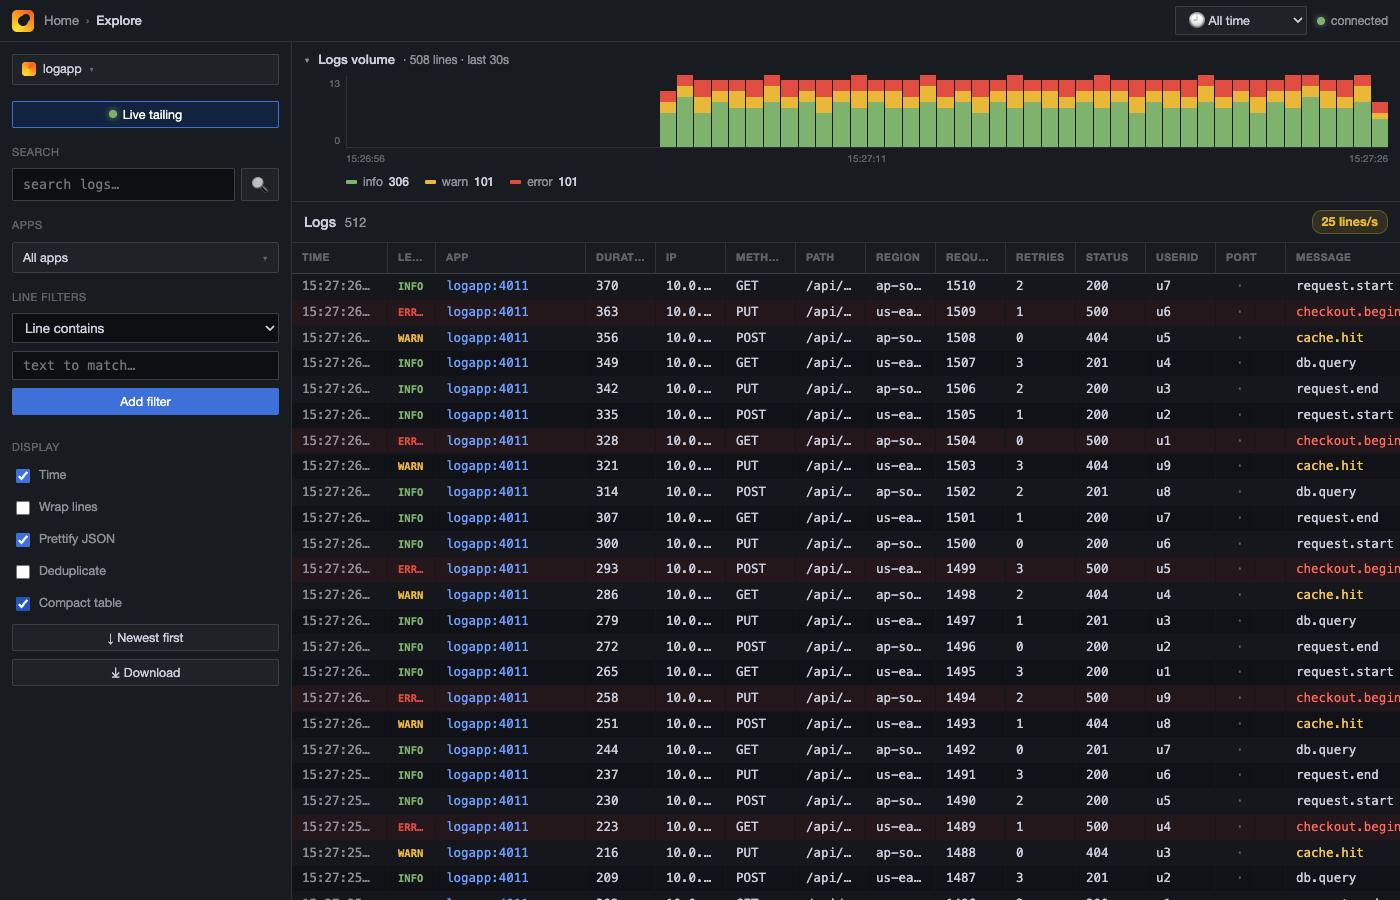
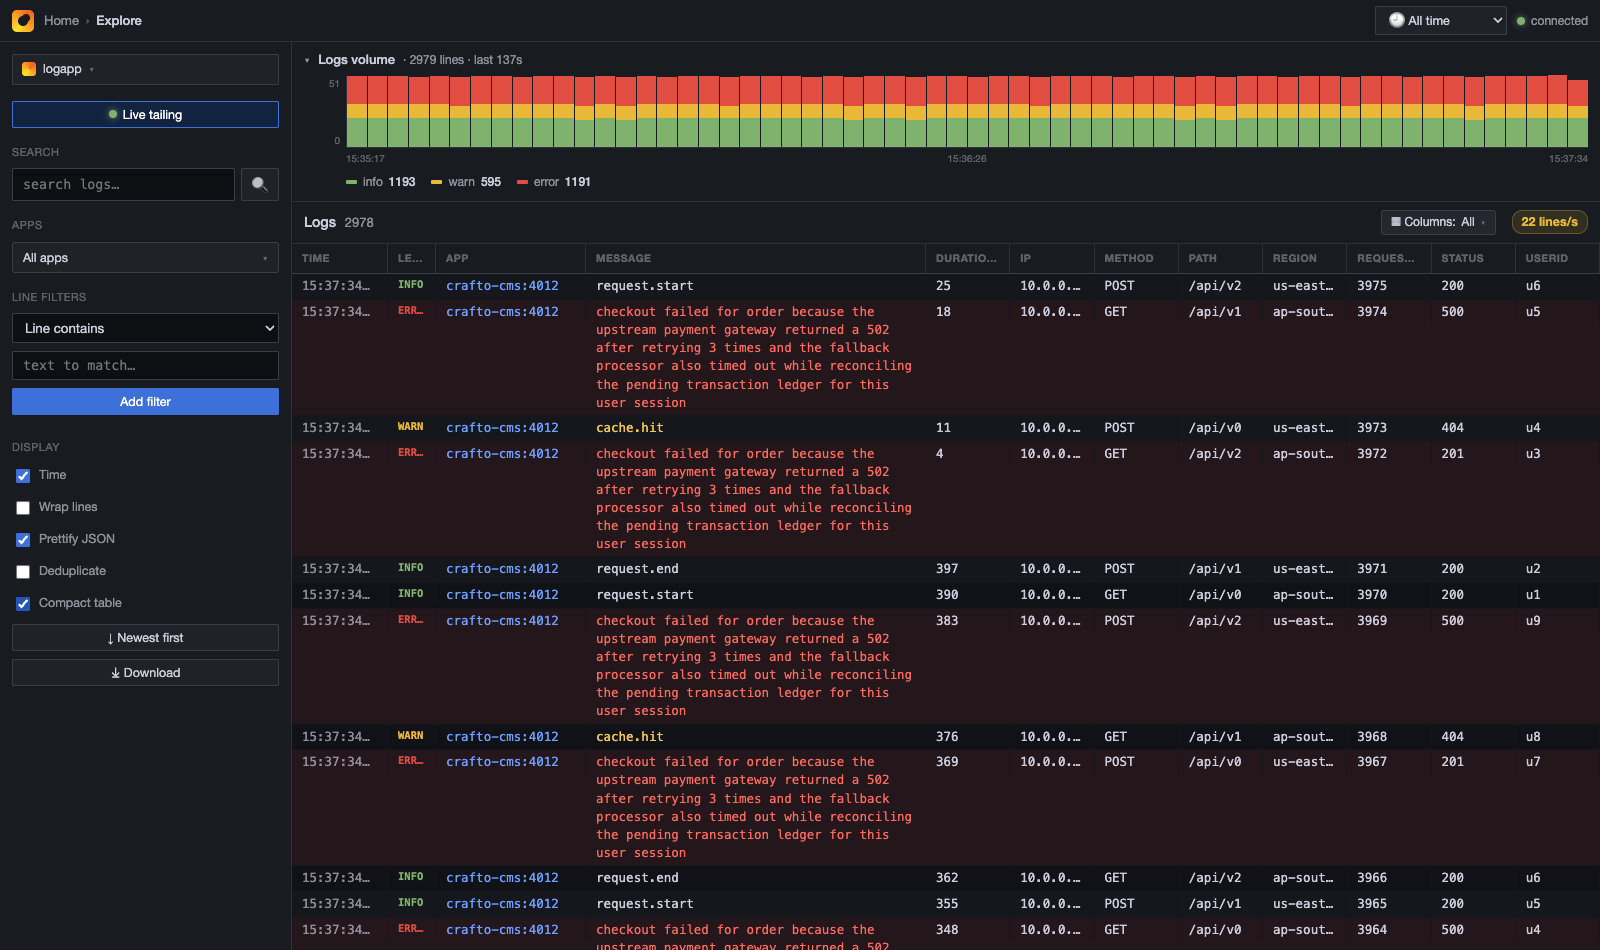
Compact table: column chooser dropdown, full message column, fixes
- Add a Columns dropdown (default 'All') to compact mode: lists every detected
  field with a checkbox to show/hide it, plus an 'All columns' select-all;
  hidden columns persist and the label shows N/total. Columns accumulate across
  renders so the picker stays stable as data scrolls.
- Move Message to right after App and show it in full (wraps, never truncated) so
  long messages are completely visible; fields follow with horizontal scroll.
- Fix header/row column mismatch that put durationMs under the Message header and
  pushed the real message into the last column.
- Skip the 'port' JSON field as a column (it is sparse/empty on most lines); the
  port is already shown in the App column (name:port).

Changed region(s): [[0.0, 0.0622, 1.0, 1.0], [0.8293, 0.0, 1.0, 0.0311], [0.0, 0.0, 0.0921, 0.0311]]

diff --git a/public/index.html b/public/index.html
@@ -181,7 +181,7 @@
     border: 1px solid var(--border2); border-radius: 9px; padding: 0 7px; font-size: 11px; }
   .row.notime { grid-template-columns: 3px auto 1fr; }
   .row.notime .t { display: none; }
-  .chead, .crow { display: grid; grid-template-columns: var(--cols); align-items: baseline; }
+  .chead, .crow { display: grid; grid-template-columns: var(--cols); align-items: start; }
   .chead { position: sticky; top: 0; z-index: 4; background: var(--panel); border-bottom: 1px solid var(--border2); }
   .chead span { padding: 7px 10px; color: var(--faint); font-size: 10.5px; text-transform: uppercase; letter-spacing: .5px; font-weight: 700; white-space: nowrap; overflow: hidden; text-overflow: ellipsis; border-right: 1px solid var(--border); }
   .crow { border-bottom: 1px solid #15171c; font-family: "Roboto Mono", Menlo, monospace; font-size: 12.5px; }
@@ -197,9 +197,23 @@
   .crow.error .clv { color: var(--l-error); } .crow.fatal .clv { color: var(--l-fatal); }
   .crow .cap { color: var(--blue2); }
   .crow .cfld { color: var(--text); } .crow .cnull { color: var(--faint); }
-  .crow .cmsg { color: var(--text); border-right: none; }
+  .crow .cmsg { color: var(--text); border-right: none; white-space: normal; overflow: visible; word-break: break-word; line-height: 1.45; }
   .crow mark { background: #b9840f; color: #fff; border-radius: 1px; }
   .crow .dup { background: var(--raised); color: var(--weak); border: 1px solid var(--border2); border-radius: 9px; padding: 0 6px; font-size: 11px; }
+  .coldd { position: relative; }
+  .coldd-trigger { display: inline-flex; align-items: center; gap: 6px; background: var(--raised); color: var(--text);
+    border: 1px solid var(--border2); border-radius: 3px; padding: 4px 9px; font-size: 12px; cursor: pointer; }
+  .coldd-trigger:hover { border-color: var(--blue2); }
+  .coldd-trigger .cc { color: var(--faint); font-size: 10px; }
+  .coldd-panel { display: none; position: absolute; top: calc(100% + 4px); right: 0; z-index: 30; width: 220px;
+    max-height: 340px; overflow-y: auto; background: var(--panel); border: 1px solid var(--border2); border-radius: 4px;
+    box-shadow: 0 8px 24px rgba(0,0,0,.55); padding: 4px; }
+  .coldd-panel.open { display: block; }
+  .coldd-panel .ci { display: flex; align-items: center; gap: 8px; padding: 5px 8px; font-size: 12.5px; color: var(--text);
+    border-radius: 3px; cursor: pointer; white-space: nowrap; }
+  .coldd-panel .ci:hover { background: var(--hover); }
+  .coldd-panel .ci input { cursor: pointer; }
+  .coldd-panel .ci-all { border-bottom: 1px solid var(--border); margin-bottom: 3px; color: var(--weak); }
   .details { grid-column: 1 / -1; background: #0c0d10; border-top: 1px solid var(--border); padding: 8px 12px 12px 25px; }
   .details .dh { color: var(--weak); font-size: 11px; text-transform: uppercase; letter-spacing: .5px; margin: 4px 0 6px; }
   .kv { display: grid; grid-template-columns: max-content 1fr; gap: 3px 18px; }
@@ -310,7 +324,15 @@
       <div class="xaxis" id="xaxis"></div>
       <div class="legend" id="legend"></div>
     </div>
-    <div class="logshead"><div class="h">Logs <span id="count">0</span></div><div class="spacer"></div><span id="rate" class="rate"></span></div>
+    <div class="logshead"><div class="h">Logs <span id="count">0</span></div><div class="spacer"></div>
+      <div class="coldd" id="coldd" style="display:none">
+        <button class="coldd-trigger" id="colddtrigger">▦ Columns: <span id="colddlabel">All</span> <span class="cc">▾</span></button>
+        <div class="coldd-panel" id="colddpanel">
+          <label class="ci ci-all"><input type="checkbox" id="colall" checked /> <b>All columns</b></label>
+          <div id="colpicklist" class="colpicklist"></div>
+        </div>
+      </div>
+      <span id="rate" class="rate"></span></div>
     <div id="searchbanner"><span class="txt"></span><button id="searchexit">✕ Back to live</button></div>
     <div id="log"><div class="empty" id="empty">Waiting for logs… run a server with <code>… --logapp</code>.</div></div>
   </main>
@@ -350,6 +372,7 @@ const searchResults = []
 let histStart = 0
 let histEnd = 0
 let live = true, wrap = false, prettify = true, dedup = false, showTime = true, sortDesc = true, compact = false
+let compactColFreq = {}, compactHidden = {}, colddSig = ''
 let pendingNew = 0, renderTimer = null, lastHist = 0, atEdgeAllowed = true
 
 const $ = (id) => document.getElementById(id)
@@ -454,7 +477,7 @@ function rowHtml (ev, dupCount) {
     '<div class="bar"></div>' + t + lv + m + det + '</div>'
 }
 
-const COMPACT_SKIP = { level: 1, time: 1, msg: 1, message: 1, service: 1, event: 1, stream: 1 }
+const COMPACT_SKIP = { level: 1, time: 1, msg: 1, message: 1, service: 1, event: 1, stream: 1, port: 1 }
 
 function compactCols (out) {
   const freq = {}
@@ -469,15 +492,15 @@ function compactCols (out) {
 }
 
 function compactTemplate (cols) {
-  return (showTime ? '96px ' : '') + '48px 150px ' +
-    cols.map(() => 'minmax(70px,130px)').join(' ') + (cols.length ? ' ' : '') + 'minmax(220px,1fr)'
+  return (showTime ? '96px ' : '') + '48px 150px minmax(340px,1.3fr)' +
+    (cols.length ? ' ' + cols.map(() => 'minmax(80px,150px)').join(' ') : '')
 }
 
 function compactHead (cols) {
   return '<div class="chead">' + (showTime ? '<span>Time</span>' : '') +
-    '<span>Level</span><span>App</span>' +
+    '<span>Level</span><span>App</span><span>Message</span>' +
     cols.map((c) => '<span>' + esc(c) + '</span>').join('') +
-    '<span>Message</span></div>'
+    '</div>'
 }
 
 function compactRow (ev, dupCount, cols) {
@@ -487,14 +510,33 @@ function compactRow (ev, dupCount, cols) {
   cells += '<span class="clv">' + ev.level.toUpperCase() + '</span>'
   cells += '<span class="cap" title="' + esc(ev.stream) + '">' + esc(ev.stream) +
     (s && s.ports && s.ports.length ? ':' + esc(s.ports.join(',')) : '') + '</span>'
+  cells += '<span class="cmsg" title="' + esc(ev.msg || ev.raw) + '">' + highlight(ev.msg || ev.raw) +
+    (dupCount > 1 ? ' <span class="dup">×' + dupCount + '</span>' : '') + '</span>'
   cells += cols.map((k) => {
     const has = (k in f) && typeof f[k] !== 'object' && f[k] !== null
     const v = has ? String(f[k]) : ''
     return '<span class="cfld" title="' + esc(v) + '">' + (has ? highlight(v) : '<span class="cnull">·</span>') + '</span>'
   }).join('')
-  cells += '<span class="cmsg" title="' + esc(ev.msg || ev.raw) + '">' + highlight(ev.msg || ev.raw) +
-    (dupCount > 1 ? ' <span class="dup">×' + dupCount + '</span>' : '') + '</span>'
   return '<div class="crow ' + ev.level + '">' + cells + '</div>'
+}
+
+function updateColLabel (allCols) {
+  const vis = allCols.filter((k) => !compactHidden[k]).length
+  const all = vis === allCols.length
+  $('colddlabel').textContent = all ? 'All' : (vis + '/' + allCols.length)
+  const cb = $('colall'); cb.checked = all; cb.indeterminate = !all && vis > 0
+}
+
+function renderColPicker (allCols) {
+  $('coldd').style.display = allCols.length ? '' : 'none'
+  const sig = allCols.join(',')
+  if (sig !== colddSig) {
+    colddSig = sig
+    $('colpicklist').innerHTML = allCols.map((k) =>
+      '<label class="ci"><input type="checkbox" data-col="' + esc(k) + '"' + (compactHidden[k] ? '' : ' checked') + ' /> ' + esc(k) + '</label>'
+    ).join('')
+  }
+  updateColLabel(allCols)
 }
 
 function render () {
@@ -512,13 +554,19 @@ function render () {
     })
     if (prev) out.push([prev, cnt])
   } else { disp.forEach((ev) => out.push([ev, 1])) }
+  logEl.classList.toggle('wrap', wrap)
   if (compact) {
-    const cols = compactCols(out)
+    const present = compactCols(out)
+    present.forEach((k, i) => { compactColFreq[k] = Math.max(compactColFreq[k] || 0, present.length - i) })
+    const allCols = Object.keys(compactColFreq).sort((a, b) => compactColFreq[b] - compactColFreq[a] || a.localeCompare(b))
+    const cols = allCols.filter((k) => !compactHidden[k])
     logEl.style.setProperty('--cols', compactTemplate(cols))
     logEl.classList.add('compactmode')
     logEl.innerHTML = compactHead(cols) + out.map(([ev, c]) => compactRow(ev, c, cols)).join('')
+    renderColPicker(allCols)
   } else {
     logEl.classList.remove('compactmode')
+    $('coldd').style.display = 'none'
     logEl.innerHTML = out.map(([ev, c]) => rowHtml(ev, c)).join('')
   }
   if (!out.length) {
@@ -789,6 +837,21 @@ $('time').addEventListener('change', (e) => { showTime = e.target.checked; sched
 $('wrap').addEventListener('change', (e) => { wrap = e.target.checked; scheduleRender(true) })
 $('dedup').addEventListener('change', (e) => { dedup = e.target.checked; scheduleRender(true) })
 $('compact').addEventListener('change', (e) => { compact = e.target.checked; scheduleRender(true) })
+$('colddtrigger').addEventListener('click', (e) => { e.stopPropagation(); $('colddpanel').classList.toggle('open') })
+$('colddpanel').addEventListener('click', (e) => e.stopPropagation())
+$('colpicklist').addEventListener('change', (e) => {
+  const cb = e.target.closest('input[data-col]'); if (!cb) return
+  const k = cb.getAttribute('data-col')
+  if (cb.checked) delete compactHidden[k]; else compactHidden[k] = true
+  scheduleRender(true)
+})
+$('colall').addEventListener('change', (e) => {
+  const cols = colddSig ? colddSig.split(',') : []
+  if (e.target.checked) { compactHidden = {} } else { cols.forEach((k) => { compactHidden[k] = true }) }
+  colddSig = ''
+  scheduleRender(true)
+})
+document.addEventListener('click', (e) => { if (!e.target.closest('.coldd')) $('colddpanel').classList.remove('open') })
 $('prettify').addEventListener('change', (e) => {
   prettify = e.target.checked
   if (prettify) { events.forEach((ev) => { if (ev.fields) expanded.add(ev.id) }) } else { expanded.clear() }

diff --git a/README.md b/README.md
@@ -93,7 +93,8 @@ stays fully responsive (~0.4ms). How:
 | Infinite scroll | Scroll toward older logs and older lines are streamed in from disk on demand (`/query`), so you can browse the whole history without loading it all |
 | Time range | Grafana-style picker (Last 5m/10m/15m/30m/1h/3h) + custom From→To; **drag on the histogram** to zoom to a range. All in IST |
 | Pretty JSON | On by default — every line auto-expands to a syntax-highlighted, indented JSON view |
-| Pretty JSON ↔ Compact | Default expanded, syntax-highlighted JSON; a **Compact table** toggle switches to a real columnar table — sticky header, fixed `Time / Level / App` columns, and **every** JSON field auto-promoted to its own aligned column (ordered by frequency, e.g. `requestId`, `durationMs`, `status`…), with horizontal scroll when there are many. Zebra rows, `Message` flexes to fill, search highlight + level colours carry over |
+| Pretty JSON ↔ Compact | Default expanded, syntax-highlighted JSON; a **Compact table** toggle switches to a real columnar table — sticky header, `Time / Level / App / Message` up front (message shown in full, wrapping so it's never cut), and **every** JSON field auto-promoted to its own aligned column (ordered by frequency, e.g. `requestId`, `durationMs`, `status`…), with horizontal scroll when there are many. Zebra rows, level colours + search highlight carry over |
+| Column chooser | In compact mode a **Columns ▾** dropdown (default **All**) lists every detected field; tick/untick to show or hide any column, or toggle **All columns** at once. Label shows `N/total` when some are hidden |
 | Wrap / Time / Dedup | Wrap long lines, hide timestamps, collapse consecutive duplicates (`×N`) |
 | Sort / Download | `Newest first` / `Oldest first`; save the buffer as a `.log` |
 
